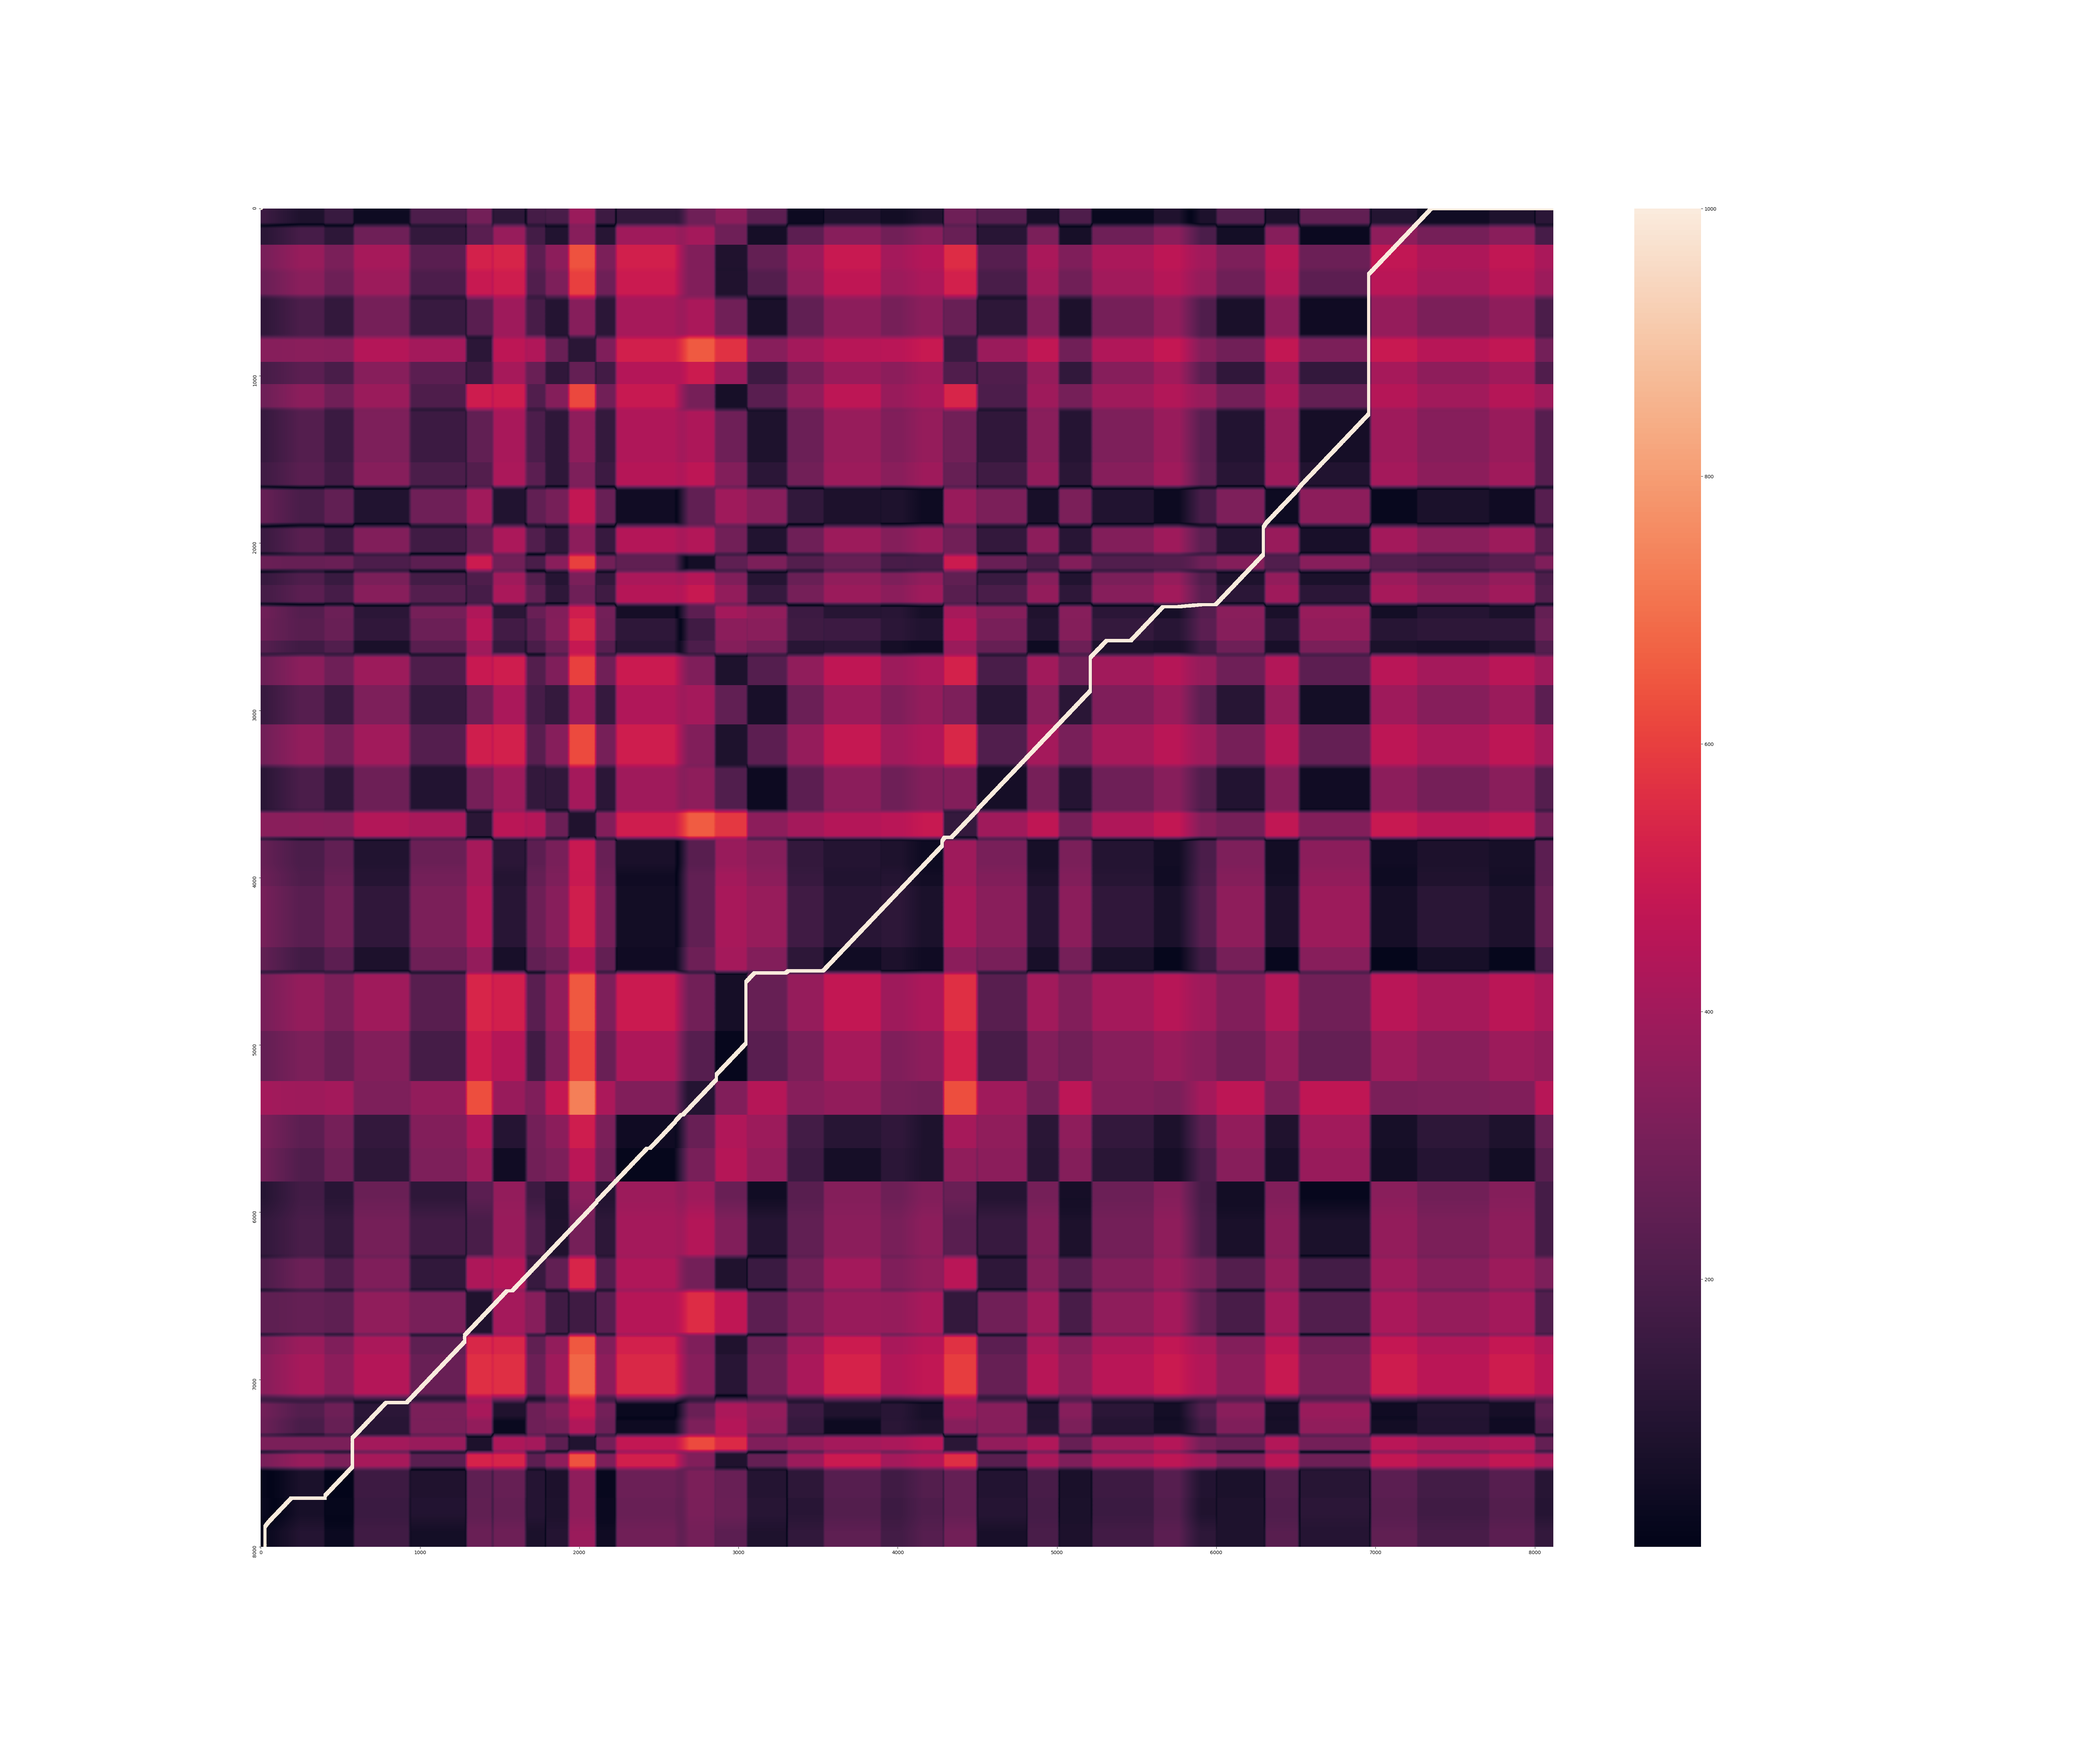
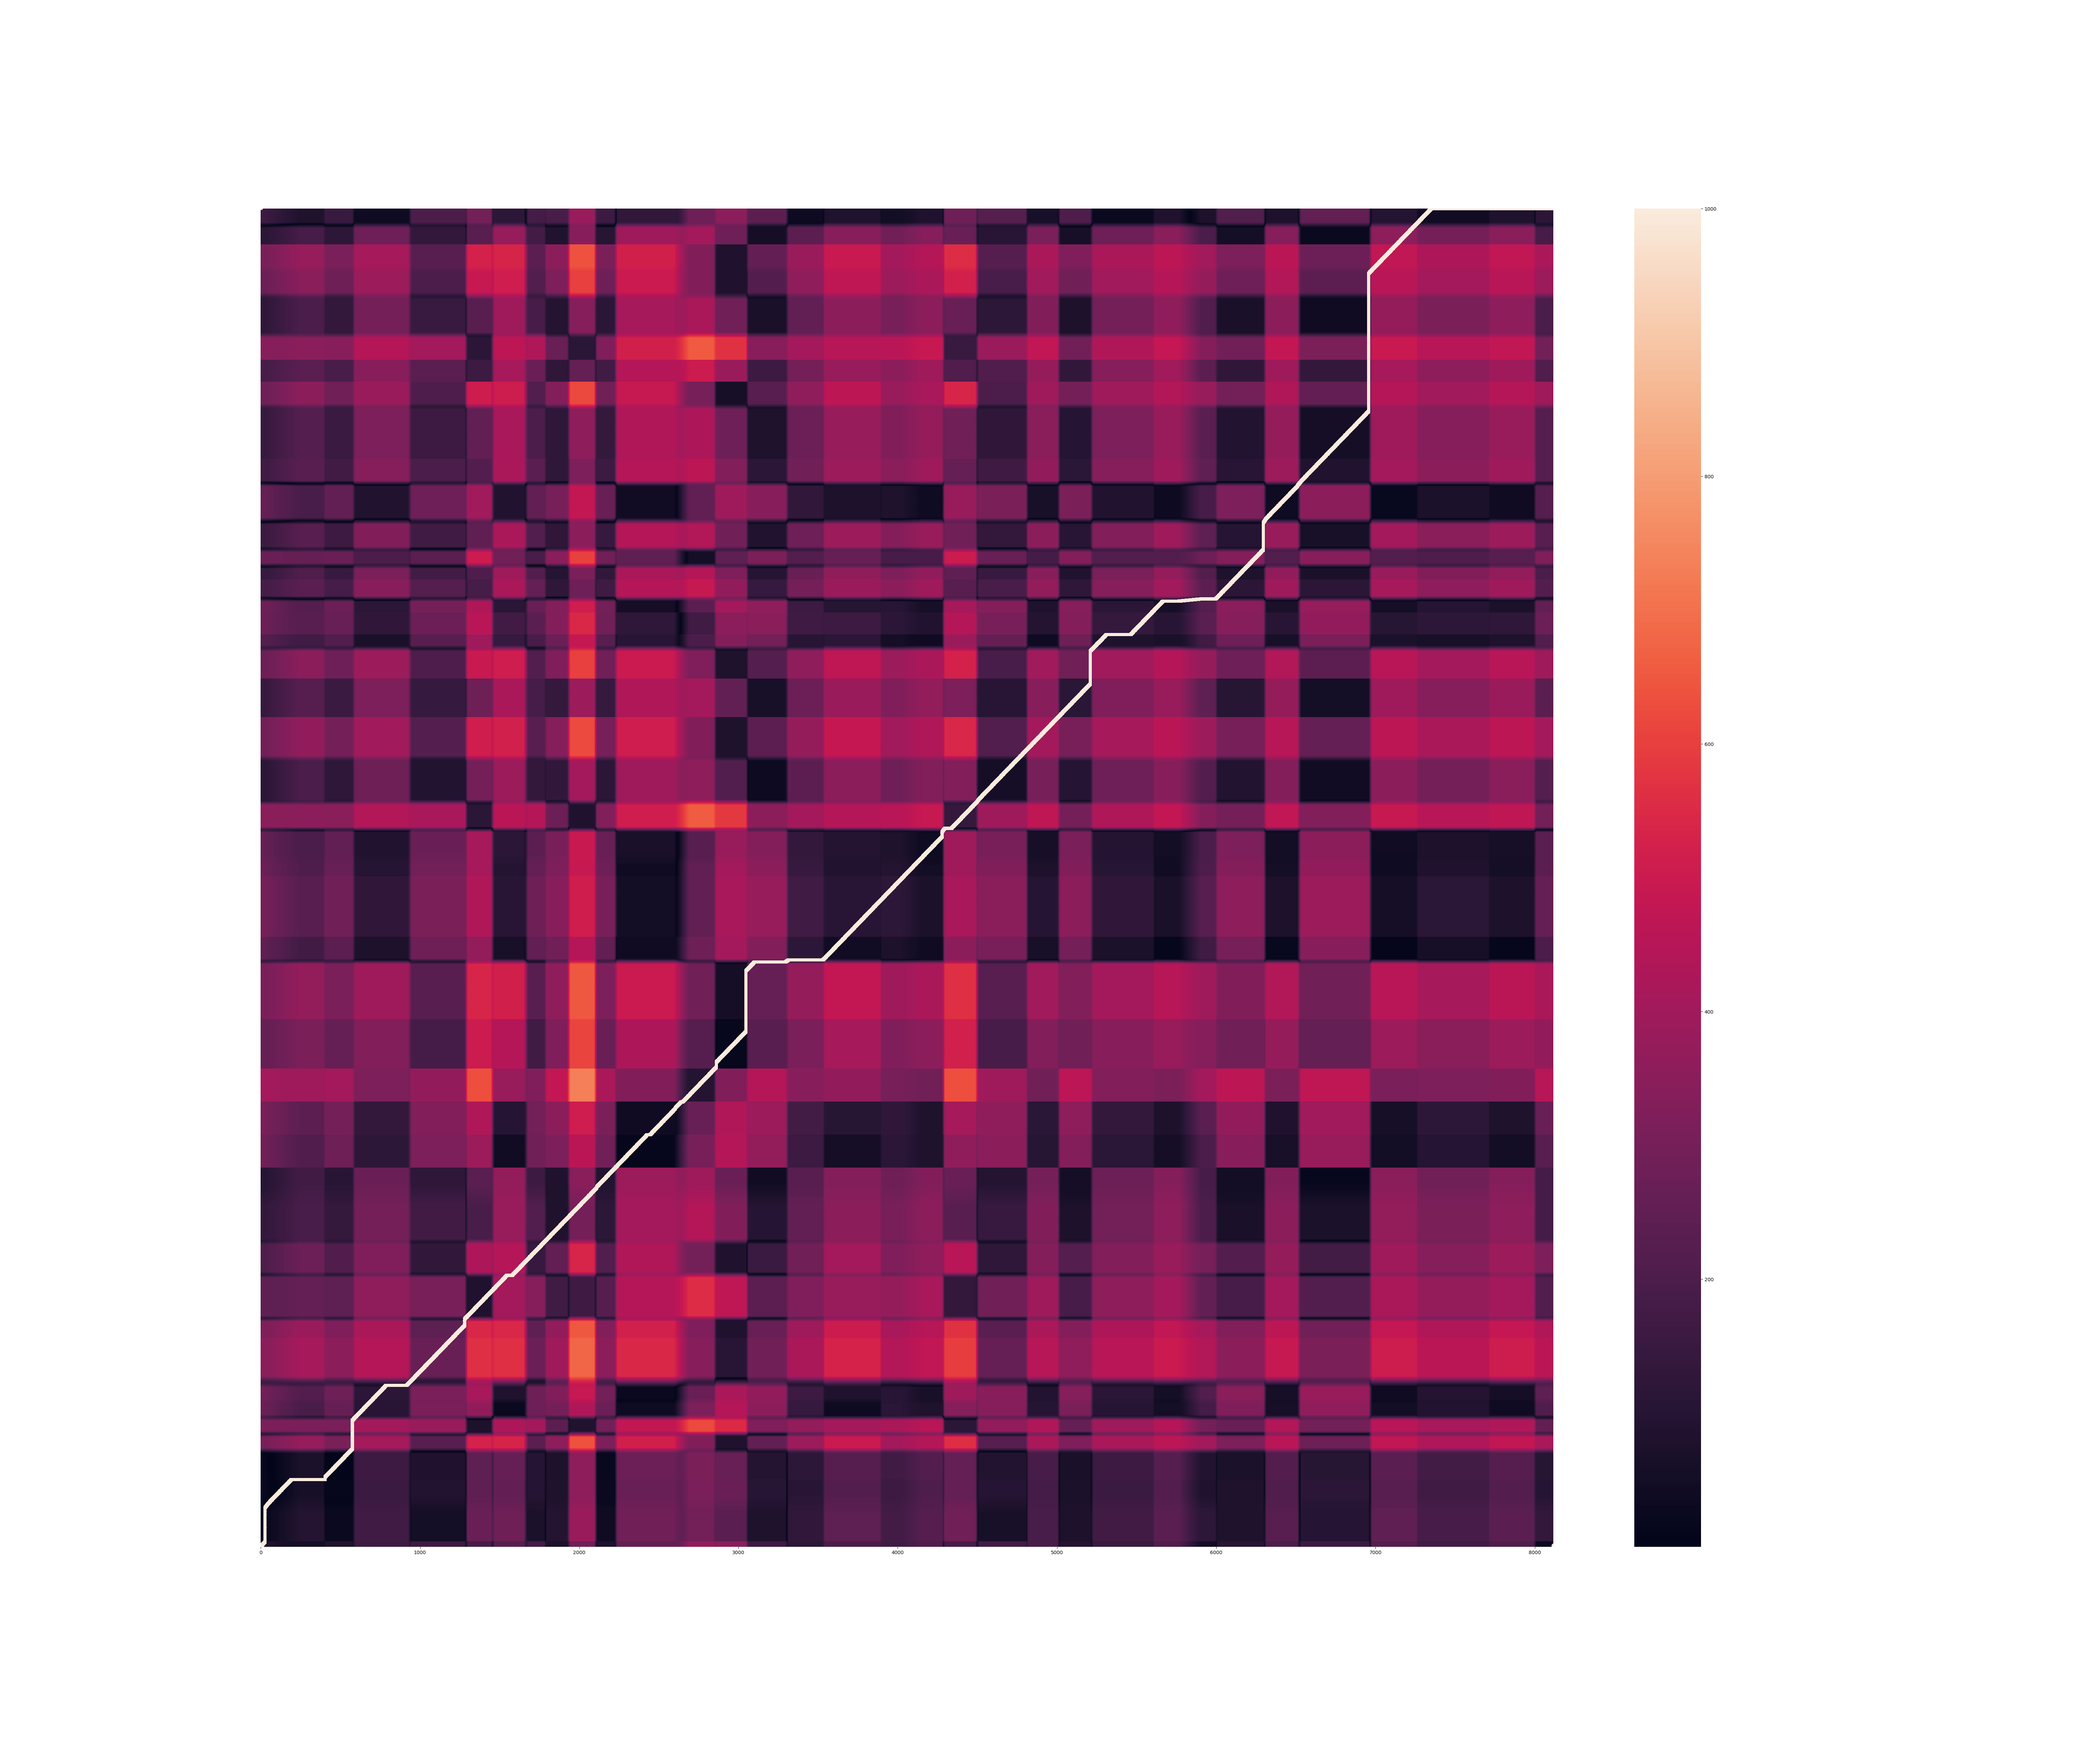
uibub

diff --git a/auswertung1.py b/auswertung1.py
@@ -1,6 +1,10 @@
 import pandas as pd
 import numpy as np
 from Pathmap import Pathmap
+from multiprocessing.dummy import Pool as ThreadPool
+import datetime
+import subprocess
+import sys
 
 aliases = [
     "Spot1",
@@ -36,33 +40,51 @@ aliases = [
     "Control7",
     "Control8",
 ]
-distances = ["euklid", "winkel", "winkellog"]
-pbn = "pb1_2"
-pr = pbn.split('_')[0] if '_' in pbn else pbn
-distance = "euklid"
-alias = "Spot1"
 
-dist_file = "output/" + pbn + "/" + pr + "_" + alias + "_" + distance + "_dist.csv"
-list_file = "output/" + pbn + "/" + pr + "_" + alias + "_" + distance + "_list.csv"
-with open(dist_file, "r") as file:
-    lines = file.readlines()
-    absolut_distance = float(lines[0].strip())
-    len_of_signal = int(lines[1].strip())
-mean_distance_of_signal = absolut_distance * 1.0 / len_of_signal
 
-list_df = pd.read_csv(list_file)
-path_ref = list_df["path_ref"].to_numpy()
-path_query = list_df["path_query"].to_numpy()
+# pbn = "pb1_2"
+
+# pr = pbn.split('_')[0] if '_' in pbn else pbn
+# distance = "euklid"
 
 
 def pop_m(ar):
     return ar[ar != "-"]
 
 
-ref_x = pop_m(list_df["ref_x"].to_numpy())
-ref_y = pop_m(list_df["ref_y"].to_numpy())
-query_x = pop_m(list_df["query_x"].to_numpy())
-query_y = pop_m(list_df["query_y"].to_numpy())
-name = "plots/" + pbn + "/" + pr + "_" + alias + "_" + distance + "_pathmap.png"
-pmap = Pathmap(path_ref, path_query, ref_x, ref_y, query_x, query_y, distance, name)
-pmap.heatmap()
+def calc_mdos(pbn, pr, alias, distance):
+    dist_file = "output/" + pbn + "/" + pr + "_" + alias + "_" + distance + "_dist.csv"
+    with open(dist_file, "r") as file:
+        lines = file.readlines()
+        absolut_distance = float(lines[0].strip())
+        len_of_signal = int(lines[1].strip())
+    mean_distance_of_signal = absolut_distance * 1.0 / len_of_signal
+    return mean_distance_of_signal
+
+
+def calc_heatmap(pbn, pr, alias, distance):
+    list_file = "output/" + pbn + "/" + pr + "_" + alias + "_" + distance + "_list.csv"
+
+    list_df = pd.read_csv(list_file)
+    path_ref = list_df["path_ref"].to_numpy()
+    path_query = list_df["path_query"].to_numpy()
+
+    ref_x = pop_m(list_df["ref_x"].to_numpy())
+    ref_y = pop_m(list_df["ref_y"].to_numpy())
+    query_x = pop_m(list_df["query_x"].to_numpy())
+    query_y = pop_m(list_df["query_y"].to_numpy())
+    name = "plots/" + pbn + "/" + pr + "_" + alias + "_" + distance + "_pathmap.png"
+    pmap = Pathmap(path_ref, path_query, ref_x, ref_y, query_x, query_y, distance, name)
+    pmap.heatmap()
+
+
+
+
+
+if __name__ == "__main__":
+    pbn = sys.argv[1]
+    pr = pbn.split('_')[0] if '_' in pbn else pbn
+    alias = "Spot1"
+    distances = ["euklid", "winkel", "winkellog"]
+    for distance in distances:
+        calc_heatmap(pbn, pr, alias, distance)

diff --git a/starter.py b/starter.py
@@ -1,0 +1,20 @@
+from multiprocessing.dummy import Pool as ThreadPool
+import datetime
+import subprocess
+import sys
+
+def run_aw1(pbn):
+    output = []
+    process = subprocess.Popen('python auswertung1.py ' + pbn, stdout=subprocess.PIPE,
+                               cwd=".", shell=True)
+    for line in iter(process.stdout.readline, b''):
+        l = line.decode('utf-8')
+        sys.stdout.write(l)
+        output.append(l.rstrip())
+
+    return output
+def heatmap_multi():
+    pool = ThreadPool(4)
+    pbns = ["pb1", "pb1_2","pb2","pb3"]  # , "pb2", "pb3", "pb3_2", "pb4"]
+    results = pool.map(run_aw1, pbns)
+    return results

diff --git a/Pathmap.py b/Pathmap.py
@@ -52,8 +52,9 @@ class Pathmap:
         m = self.get_matrix()[::-1,:]
         fig = plt.figure(1)
         plt.subplots(figsize = (60,50))
-        sns.heatmap(m, xticklabels=1000, yticklabels=1000)
+        sns.heatmap(m, xticklabels=1000, yticklabels=False)
         plt.savefig(self.name)
+        plt.clf()
         t = time() - t0
         print("Generating Distance Matrix and Plotting took "+str(t))
 
